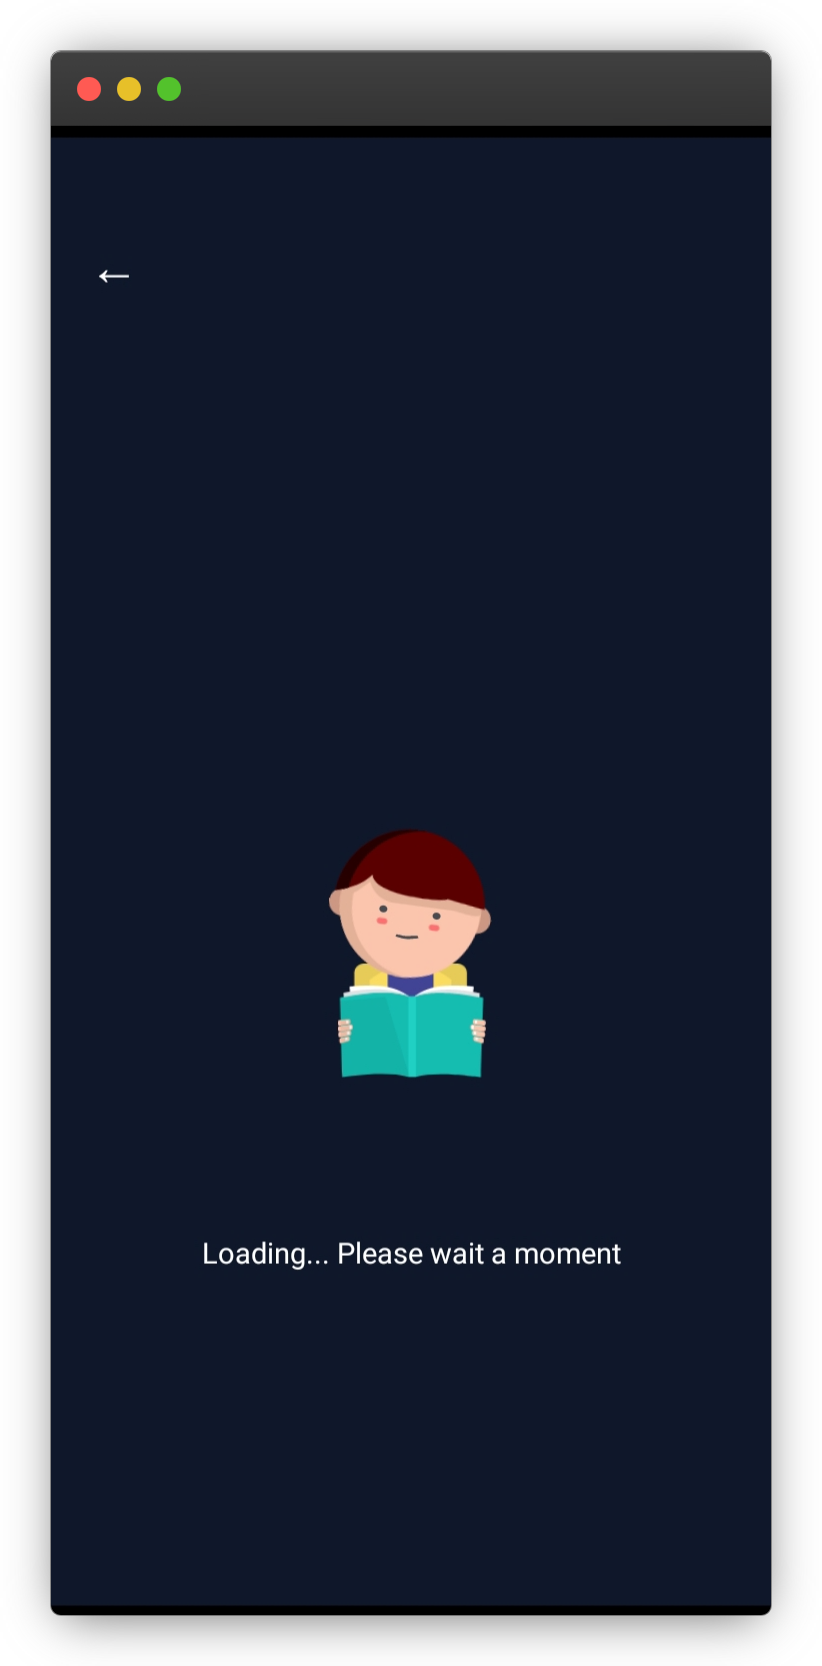
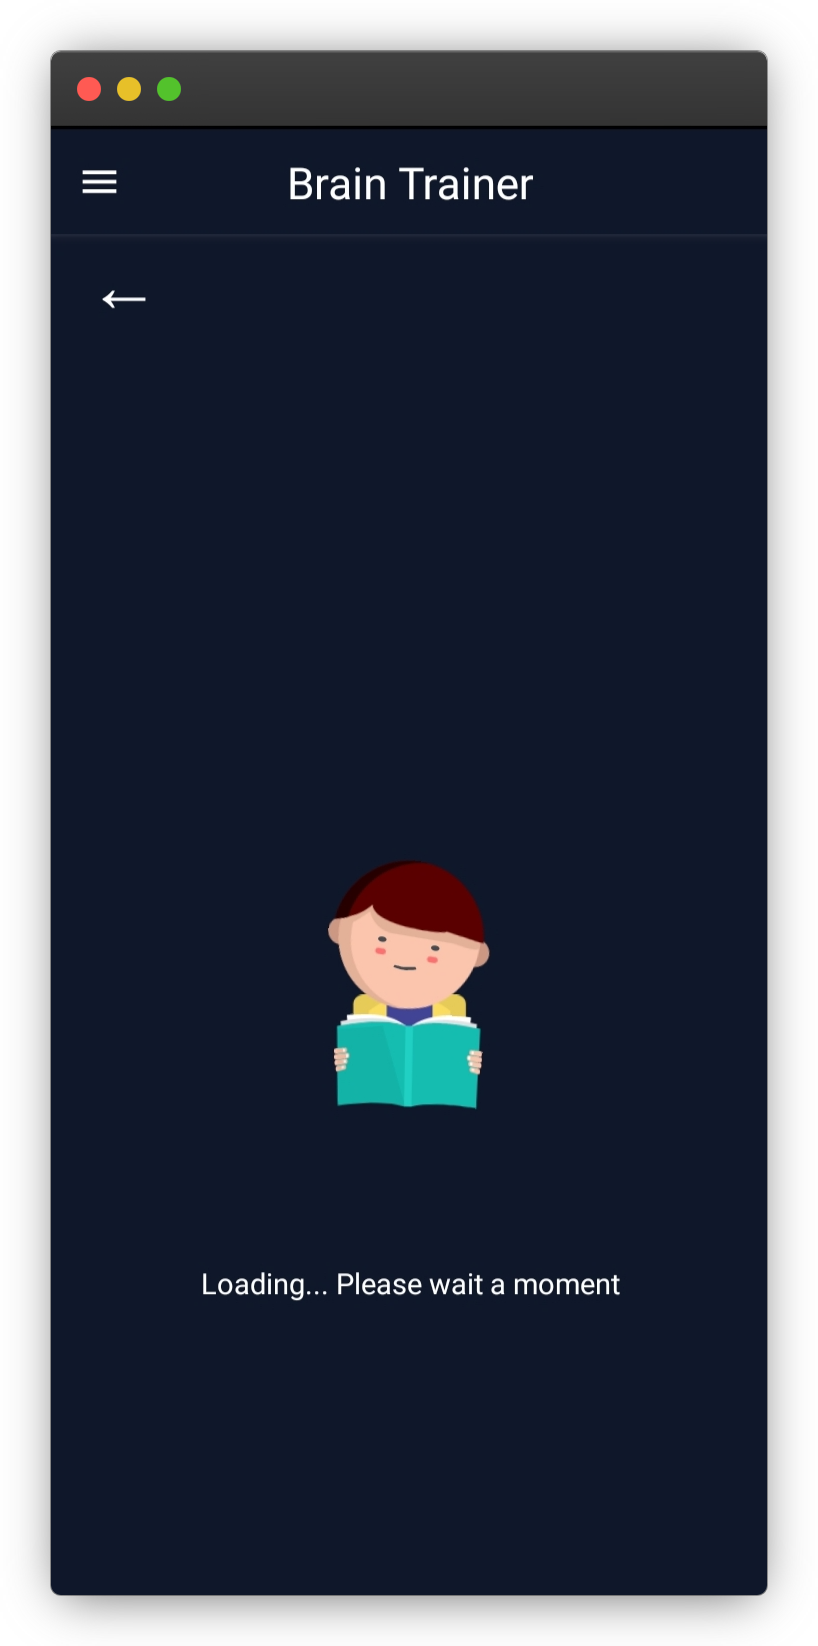
🔥 added dosumentaion

diff --git a/README.md b/README.md
@@ -6,19 +6,22 @@
 
 <h2 align="center">🧐 Features</h2>
 
-Here are some key features of the project:
-
-- Multiple Choice Questions
-- Difficulty Levels (Easy, Medium, Hard)
-- Vibrate Mode for Real-time Feedback
-- Minimalist Design
-- eye catching UI
-- iOS and Android
-- Faq Section for Common Questions
-- Dynamic Scoreboard
-- Splash Screen
-- Loading Screen
-- Real time repository statistics
+- Multiple Choice Questions 🤔
+- Difficulty Levels (Easy, Medium, Hard) 🌟
+- Vibrate Mode for Real-time Feedback 📳
+- Minimalist Design 🎨
+- iOS and Android 📱
+- FAQ Section for Common Queries ❓
+- Share App screen with various social media platforms 📤
+- Feedback Form with validation and error handling 📝✅❌
+- Dynamic Scoreboard 📊
+- Splash Screen 🚀
+- Drawer Navigation 🗂
+- About Screen ℹ
+- Loading Screen ⌛
+- Algorithm to generate random questions and shuffle answers 🔀
+- Real-time repository statistics 📊🔄
+- Animation on screen transitions 🎬
 
 <h2 align="center">💻 Built with</h2>
 
@@ -28,14 +31,7 @@ Technologies used in the project:
 - Javascript
 - CSS
 
-Technologies used in the project:
-
-- React Native CLI
-- React Native
-- React Navigation
-- React Native Vibration
-
-<h2 align="center">Screenshots</h2>
+<h2 align="center">📸 Screenshots</h2>
 
 <p align="center">
   <table>
@@ -44,8 +40,8 @@ Technologies used in the project:
       <td align="center"><img src="./assets/Output/home.png" alt="Home"></td>
     </tr>
        <tr>
-      <td align="center"><img src="assets/Output/loading.png" alt="Loading"></td>
       <td align="center"><img src="./assets/Output/error.png" alt="Error"></td>
+      <td align="center"><img src="assets/Output/loading.png" alt="Loading"></td>
     </tr>
     <tr>
       <td align="center"><img src="assets/Output/mcqs.png" alt="MCQs"></td>
@@ -56,7 +52,15 @@ Technologies used in the project:
       <td align="center"><img src="assets/Output/faqs.png" alt="FAQs"></td>
     </tr>
     <tr>
+      <td align="center"><img src="assets/Output/drawer.png" alt="Pass"></td>
       <td align="center"><img src="assets/Output/about.png" alt="Pass"></td>
+    </tr>
+    <tr>
+      <td align="center"><img src="assets/Output/share.png" alt="Pass"></td>
+      <td align="center"><img src="assets/Output/feedback.png" alt="Pass"></td>
+    </tr>
+    <tr>
+      <td align="center"><img src="assets/Output/feedback-err.png" alt="Pass"></td>
     </tr>
 
   </table>
@@ -64,7 +68,7 @@ Technologies used in the project:
 
 <h2 align="center">Releases 🚀</h2>
 
-- [v1.0.0](https://github.com/ZeeshanMukhtar1/BrainTrain-Native/releases/tag/v1.0.0) - Download apk
+- [v2.0.0](https://github.com/ZeeshanMukhtar1/Brain-Trainer/releases) - Download apk
 
 <h2 align="center"> Connect with Me 👋</h2>
 
